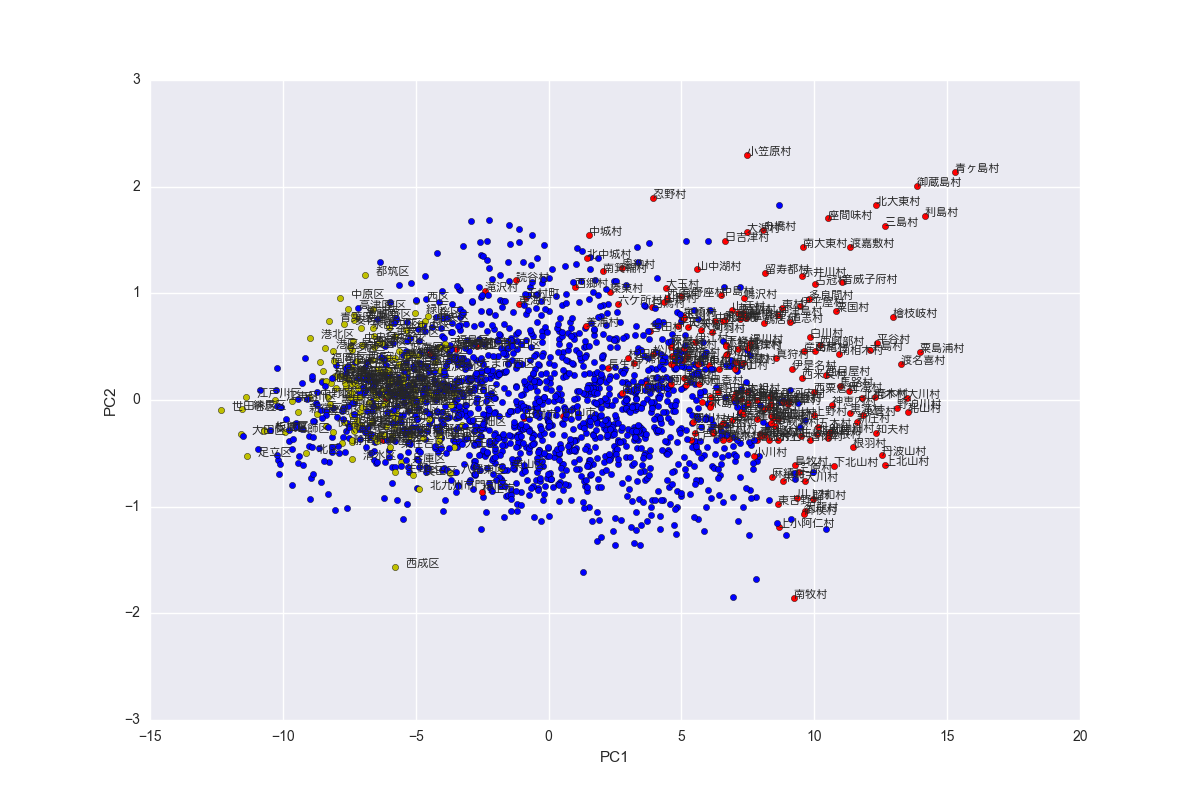
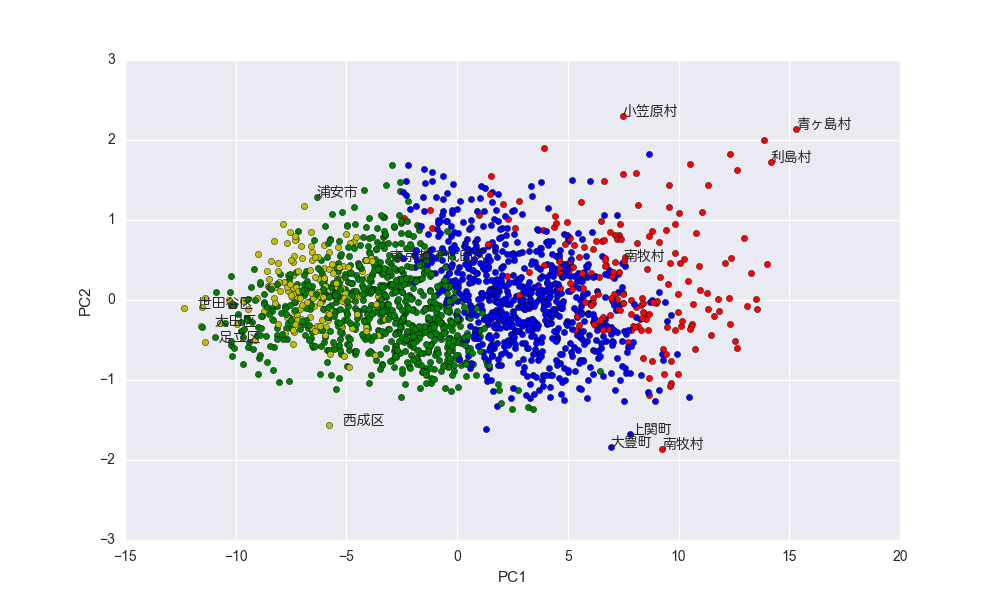
fix factor analysis

diff --git a/factor.py b/factor.py
@@ -11,7 +11,7 @@ from sklearn import svm
 def read_csv(is_log):
     """
     csvを読み込む
-    
+
     :param is_log: log(1+x)とスケール変換されたファイルを読み込むフラグ
     :return:
     """
@@ -37,7 +37,7 @@ def calc_pca(df):
     return pca, pca_point
 
 
-def pca_components(is_log=True):
+def pca_components(is_log=True, is_save=False):
     """
     因子負荷量、寄与率、累積寄与率を計算しプロットする。
 
@@ -51,11 +51,23 @@ def pca_components(is_log=True):
     :see: http://i.cla.kobe-u.ac.jp/murao/class/2015-SeminarB3/05_Python_de_PCA.pdf
     """
     df = read_csv(is_log)
+    index = df['name']
     pca, pca_point = calc_pca(df)
     components = pca.components_
     ratio = np.cumsum(pca.explained_variance_ratio_)
     print(components)
     print(ratio)
+    fig, ax = plt.subplots(figsize=(10, 6))
+
+    ax.plot(components[0], c='r', label='PC1')
+    ax.plot(components[1], c='b', label='PC2')
+    from columns import columns
+    ticks = ax.set_xticks(range(0, 12))
+    labels = ax.set_xticklabels(columns, rotation=30, fontsize='large')
+    ax.legend()
+    if is_save is True:
+        plt.savefig('data/picture/factor_components.png')
+    plt.show()
 
 
 def factor(is_log=True, is_save=False, fp=None):
@@ -73,23 +85,33 @@ def factor(is_log=True, is_save=False, fp=None):
     df_index = df['name']
     pca, pca_point = calc_pca(df)
 
-    fig, ax = plt.subplots(figsize=(12, 8), dpi=100)
+    fig, ax = plt.subplots(figsize=(10, 6), dpi=100)
 
     def annotate(txt):
         ax.annotate(txt, (pca_point[i, 0], pca_point[i, 1]), fontproperties=fp)
 
     def scatter(c):
-        plt.scatter(pca_point[i, 0], pca_point[i, 1], c=c)
+        plt.scatter(pca_point[i, 0], pca_point[i, 1], c=c, marker='o')
 
     for i, txt in enumerate(df_index):
-        if '村' in txt:
-            annotate(txt)
+        if txt[-1] == '村':
+            if '小笠原村' in txt or '青ヶ島村' in txt or '利島村' in txt or '南牧村' in txt:
+                annotate(txt)
             scatter('r')
-        elif '区' in txt:
-            annotate(txt)
+        elif txt[-1] == '区':
+            if '大田区' in txt or '千代田区' in txt or '足立区' in txt or '世田谷区' in txt or '西成区' in txt:
+                annotate(txt)
             scatter('y')
-        else:
+        elif txt[-1] == '市':
+            if '浦安市' in txt:
+                annotate(txt)
+            scatter('g')
+        elif txt[-1] == '町':
+            if '大豊町' in txt or '上関町' in txt or '国訪大島町' in txt or '周臨大島町' in txt:
+                annotate(txt)
             scatter('b')
+        else:
+            scatter('m')
 
     plt.xlabel('PC1')
     plt.ylabel('PC2')
@@ -101,9 +123,8 @@ def factor(is_log=True, is_save=False, fp=None):
 
 
 def main():
-    fp = FontProperties(fname='/Library/Fonts/ヒラギノ丸ゴ ProN W4.ttc', size=8)
-    factor(fp=fp, is_save=False)
-    pca_components()
+    fp = FontProperties(fname='/Library/Fonts/ヒラギノ丸ゴ ProN W4.ttc', size=10)
+    factor(fp=fp, is_save=True)
 
 
 if __name__ == '__main__':
